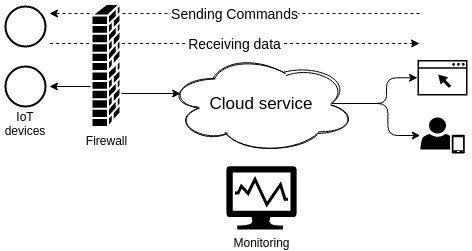
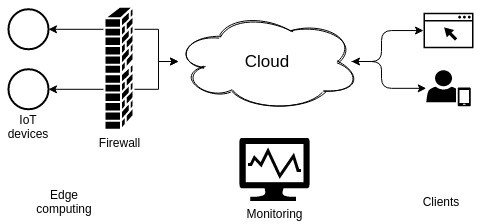
WIP

diff --git a/examples/web-sockets-ping-pong/main.go b/examples/web-sockets-ping-pong/main.go
@@ -1,0 +1,86 @@
+package main
+
+import (
+	"errors"
+	"fmt"
+	"net/http"
+	"os"
+	"strings"
+
+	"github.com/nnset/iot-cloud-connector/connectionshandlers"
+	"github.com/nnset/iot-cloud-connector/servers"
+	"github.com/nnset/iot-cloud-connector/storage"
+	"github.com/sirupsen/logrus"
+)
+
+func main() {
+	log := createLogger()
+
+	connectionsHandler := connectionshandlers.NewWebSocketsHandler(
+		"localhost", "8080", "tcp", "", "",
+		pingPongHandler,
+		authenticateConnection,
+	)
+
+	cors := servers.CrossOriginResourceSharing{
+		Headers: "Content-Type, Access-Control-Request-Method, Authorization",
+		Origin:  "*",
+	}
+
+	defaultAPI := servers.NewDefaultCloudConnectorAPI(
+		"localhost",
+		"9090",
+		"",
+		"",
+		&servers.APINoAuthenticationMiddleware{},
+		&cors,
+	)
+
+	s := servers.NewCloudConnector(
+		log, connectionsHandler, storage.NewInMemoryDeviceConnectionsStorage(), defaultAPI, nil,
+	)
+
+	s.Start(15)
+
+	os.Exit(0)
+}
+
+func pingPongHandler(deviceID string, messageType int, p []byte) error {
+	return nil
+}
+
+func authenticateConnection(r *http.Request) error {
+	// Authentication: Bearer ____token____
+	authToken := strings.Split(r.Header.Get("Authentication"), " ")[1]
+
+	registeredDevicesTokens := make([]string, 3)
+
+	registeredDevicesTokens[0] = "abc123"
+	registeredDevicesTokens[1] = "abc124"
+	registeredDevicesTokens[2] = "abc125"
+
+	for _, token := range registeredDevicesTokens {
+		if authToken == token {
+			return nil
+		}
+	}
+
+	return errors.New("Unauthorized")
+}
+
+func createLogger() *logrus.Logger {
+	var log = logrus.New()
+
+	log.SetLevel(logrus.DebugLevel)
+	log.Out = os.Stderr
+
+	file, err := os.OpenFile("ping-pong-server.log", os.O_CREATE|os.O_WRONLY|os.O_APPEND, 0666)
+
+	if err == nil {
+		log.Out = file
+	} else {
+		fmt.Println("Using stdErr for log")
+	}
+
+	return log
+}

diff --git a/servers/cloudConnector.go b/servers/cloudConnector.go
@@ -99,6 +99,7 @@ func NewCloudConnector(
 }
 
 // Start Starts ClodConnector and its child processes, currently:
+// systemMetricsStreamPublishInterval is in seconds
 //  - An instance of connectionshandlers.ConnectionsHandlerInterface via its Listen() method.
 //  - An instance of CloudConnectorAPIInterface via its Start() method.
 func (cc *CloudConnector) Start(systemMetricsStreamPublishInterval uint) {

diff --git a/README.md b/README.md
@@ -8,52 +8,61 @@
 Monitor and control your IoT devices using a simple and tiny helper cloud tool, that lets you 
 code your own business logic using [Go](https://golang.org/) programming language.
 
+## Principles
 
-## Main Concepts
+- You may communicate with IoT Devices in a **asynchronous** way.
+- You may communicate with IoT Devices in a **synchronous** way.
+- You may communicate with IoT Devices in both ways: **asynchronously** and **synchronously**.
+- At least one way of communications is required.
 
-| Name | Description |
-| ------------- | ------------- |
-| IoT Device  | Sensors, actuators, gateways or any IoT device you want to monitor or even control, with Internet access |
-| Cloud Connector  | Handles: start and shutdown actions, also monitors memory usage from connections.  |
-| REST API | A simple REST API where you query and send commands to your devices and also check Cloud Connector performance info. You can code your own API, however we provide a default one. |
-| Connections Handler  | This is your code, here you define communications protocol and business logic. We have coded some samples such as a Web sockets handler in order to help you with this. |
-| Command  | Send an order to an IoT Device. Commands may change device's state. |
-| Query  | Fetch information from an IoT Device. Queries shall not change device's state, therefore they are easily cacheable in case you need it. Queries should not alter device's state. |
-| SSE (Event stream)  | [Server Sent Events](https://developer.mozilla.org/en-US/docs/Web/API/Server-sent_events/Using_server-sent_events) that allows you to listen in real time to what is happening with your IoT devices. |
+## Concepts
 
-## Conventions
+- Asynchronous communications are performed via **Messages** exchanges.
+- IoT devices, may send **Messages** to the cloud whenever they want, you just **handle these messages**.
+- Synchronous communications are performed via **Commands** and **Queries**.
+- If you want to synchronously alter the state of your IoT devices, **send them a Command**.
+- If you want to synchronously retrieve data from your IoT devices, **send them a Query**.
+- **IoT Cloud Connector** helps you to start the server, monitor its status a gracefully shut it down.
 
-- All communications are asynchronous by default.
-- If you want to alter the current state of your IoT devices you **send them a Command**.
-- If you want to retrieve data from your IoT devices you **send them a Query**.
-- IoT devices, may send data to the cloud whenever they want, you just **handle these messages**.
+## Packages (code layers)
 
-## Features
+![Global diagram](docs/images/global-diagram.jpg)
 
 | Name | Description |
 | ------------- | ------------- |
-| Monitor  | Monitor how many messages your cloud and your IoT devices ar exchanging and how many server memory connections are consuming. |
-| Control  | Send commands to your IoT devices and Query them for retrieving data at your will.  |
-| Customize  | Code your own business logic, Cloud Connector is just a low footprint facilitator. |
-| Default API | We provide a default REST API to handle your IoT devices and server. |
-| Default Websockets handler | If websockets its your thing, we provide a connections handler for you so you only have to worry about business logic regarding messages. |
-| Vanilla UI  | We provide a simple UI using vanilla Javascript that helps you check if your server is doing fine, also allows to send Commands and Queries to your IoT devices with the payload you want. |
+| servers | [IoT Cloud Connector](servers/cloudConnector.go) code and [REST API interface](servers/cloudConnectorAPIInterface.go) with an out of the box [API implementation](/docs/default-cloud-connector-api.md) |
+| connectionshandlers | [Interfaces](connectionshandlers/connectionsHandlerInterface.go) needed by Cloud Connector, that you have to implement in order to have your own communications. Also an out of the box [websockets implementation](connectionshandlers/websocketsHandler.go) where you can inject your own business logic, is provided. |
+| connections | [Structs and interfaces](connections/deviceConnection.go) in order to store IoT Devices connections information. |
+| storage | [Interfaces](storage/deviceConnectionsStorageInterface.go) that you will have to implemente in order to store connections information and an out of the box in memory implementation. |
+| ui | Vanilla UI, a Vanilla Javascript user interface, that connects to an IoT Cloud Connector instance, via our [out of the box API](/docs/default-cloud-connector-api.md) that shows you information regarding connected devices and allows to send them queries and commands. |
 
 ![Vanilla UI Dashboard](docs/images/vanilla-ui-dashboard.jpg)
 ![Vanilla UI Devices](docs/images/vanilla-ui-device.jpg)
 
-## Usage
 
-![Global diagram](docs/images/global-diagram.jpg)
+## Usage
 
 What you **must** code to make it work:
 
-1. A **connections handler** that will define the communications protocol between your IoT devices and Cloud Connector.
+
+1. A **modules definition** for your project [go.mod](https://blog.golang.org/using-go-modules) file:
+
+```
+go 1.13
+
+require (
+    github.com/nnset/iot-cloud-connector
+    github.com/sirupsen/logrus v1.4.2
+)
+
+```
+
+2. A **connections handler** that will define the communications protocol between your IoT devices and Cloud Connector.
 
 Your handlers must implement [connectionshandlers.ConnectionsHandlerInterface](connectionshandlers/connectionsHandlerInterface.go). Check [websockets sample](connectionshandlers/sampleWebsocketsHandler.go) for an example.
 
 
-2. Your own **package** or main.go file:
+3. Your own **package** or main.go file:
 
 ```go
 package main
@@ -118,18 +127,6 @@ func createLogger() *logrus.Logger {
 
     return log
 }
-
-```
-
-3. A **modules definition** for your project [go.mod](https://blog.golang.org/using-go-modules) file:
-
-```
-go 1.13
-
-require (
-    github.com/nnset/iot-cloud-connector
-    github.com/sirupsen/logrus v1.4.2
-)
 
 ```
 
@@ -240,7 +237,7 @@ We provide a default REST API for Cloud Connector check the [documentation here]
 
 # Links
 
-Cloud connector uses these amazing projects:
+IoT Cloud Connector uses these amazing projects:
 
 - Gorilla Toolkit: https://www.gorillatoolkit.org/
 - Logrus: https://github.com/sirupsen/logrus
